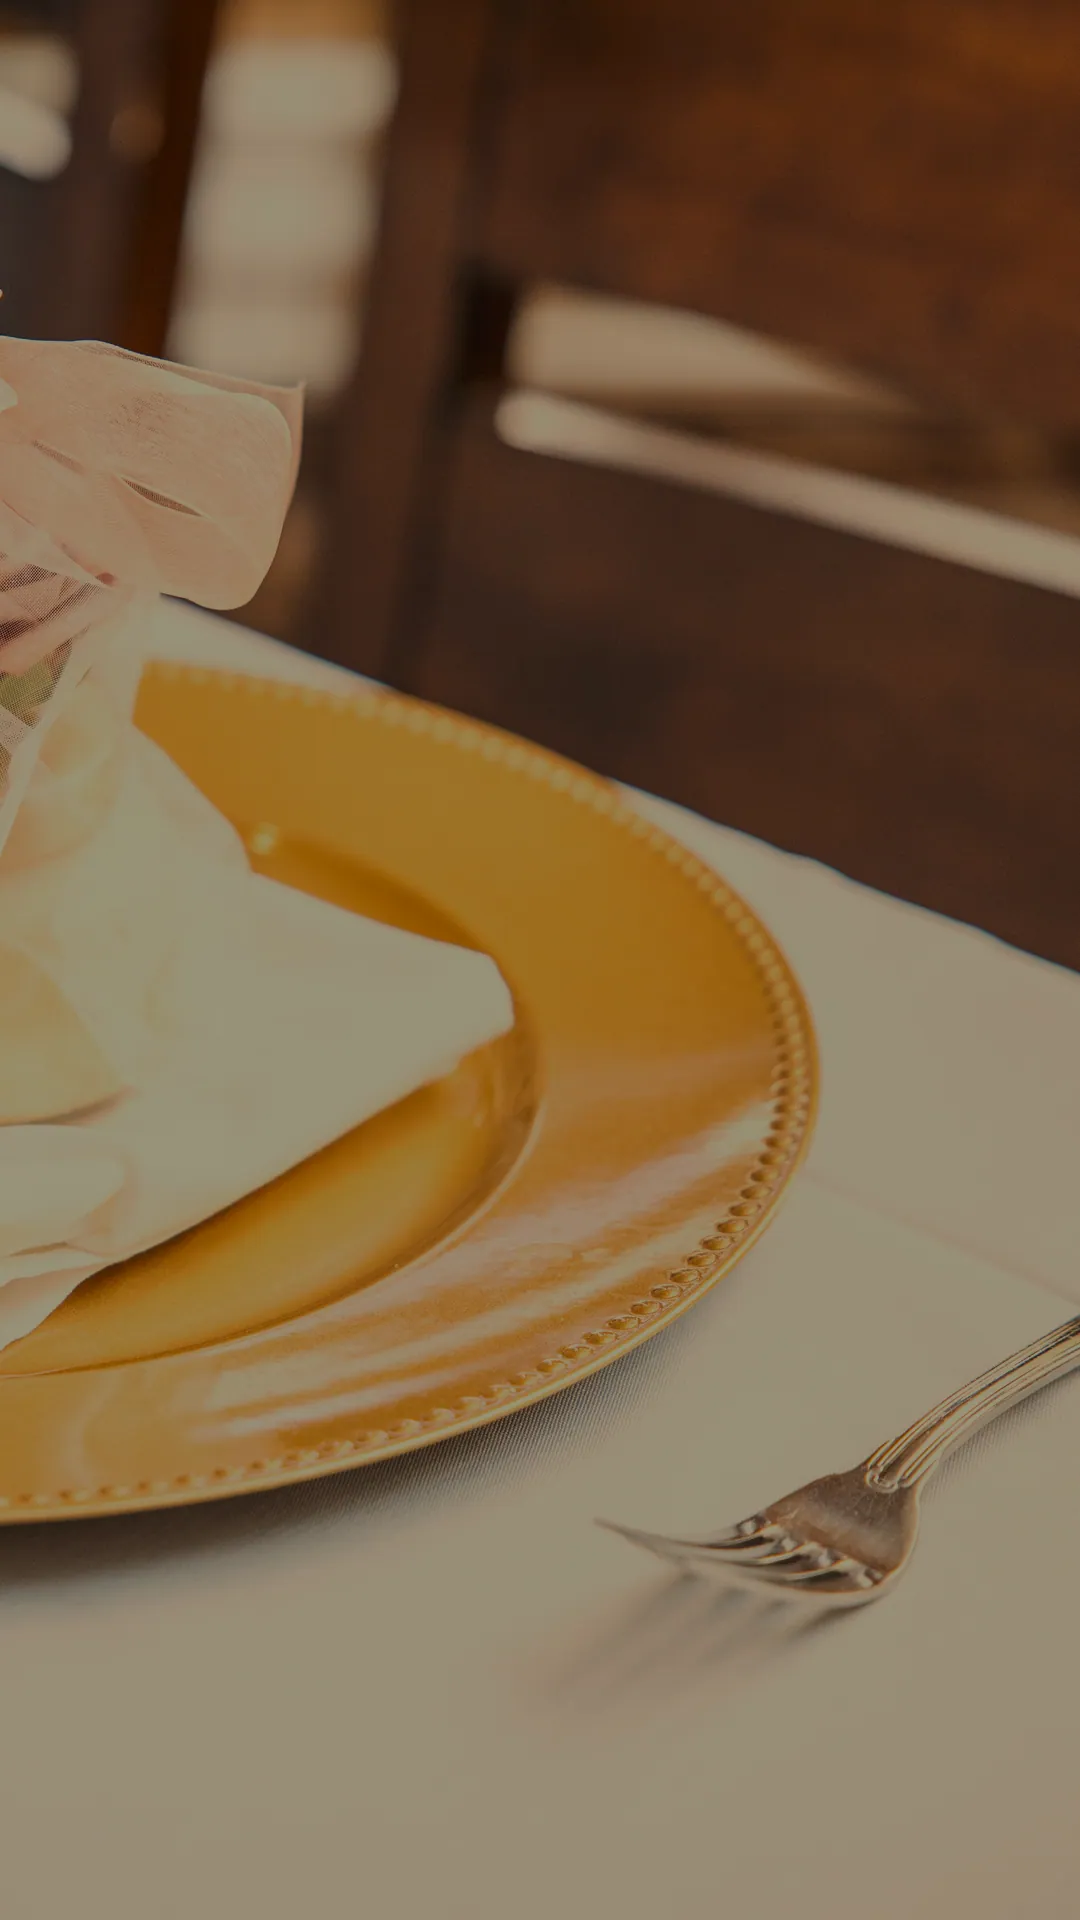
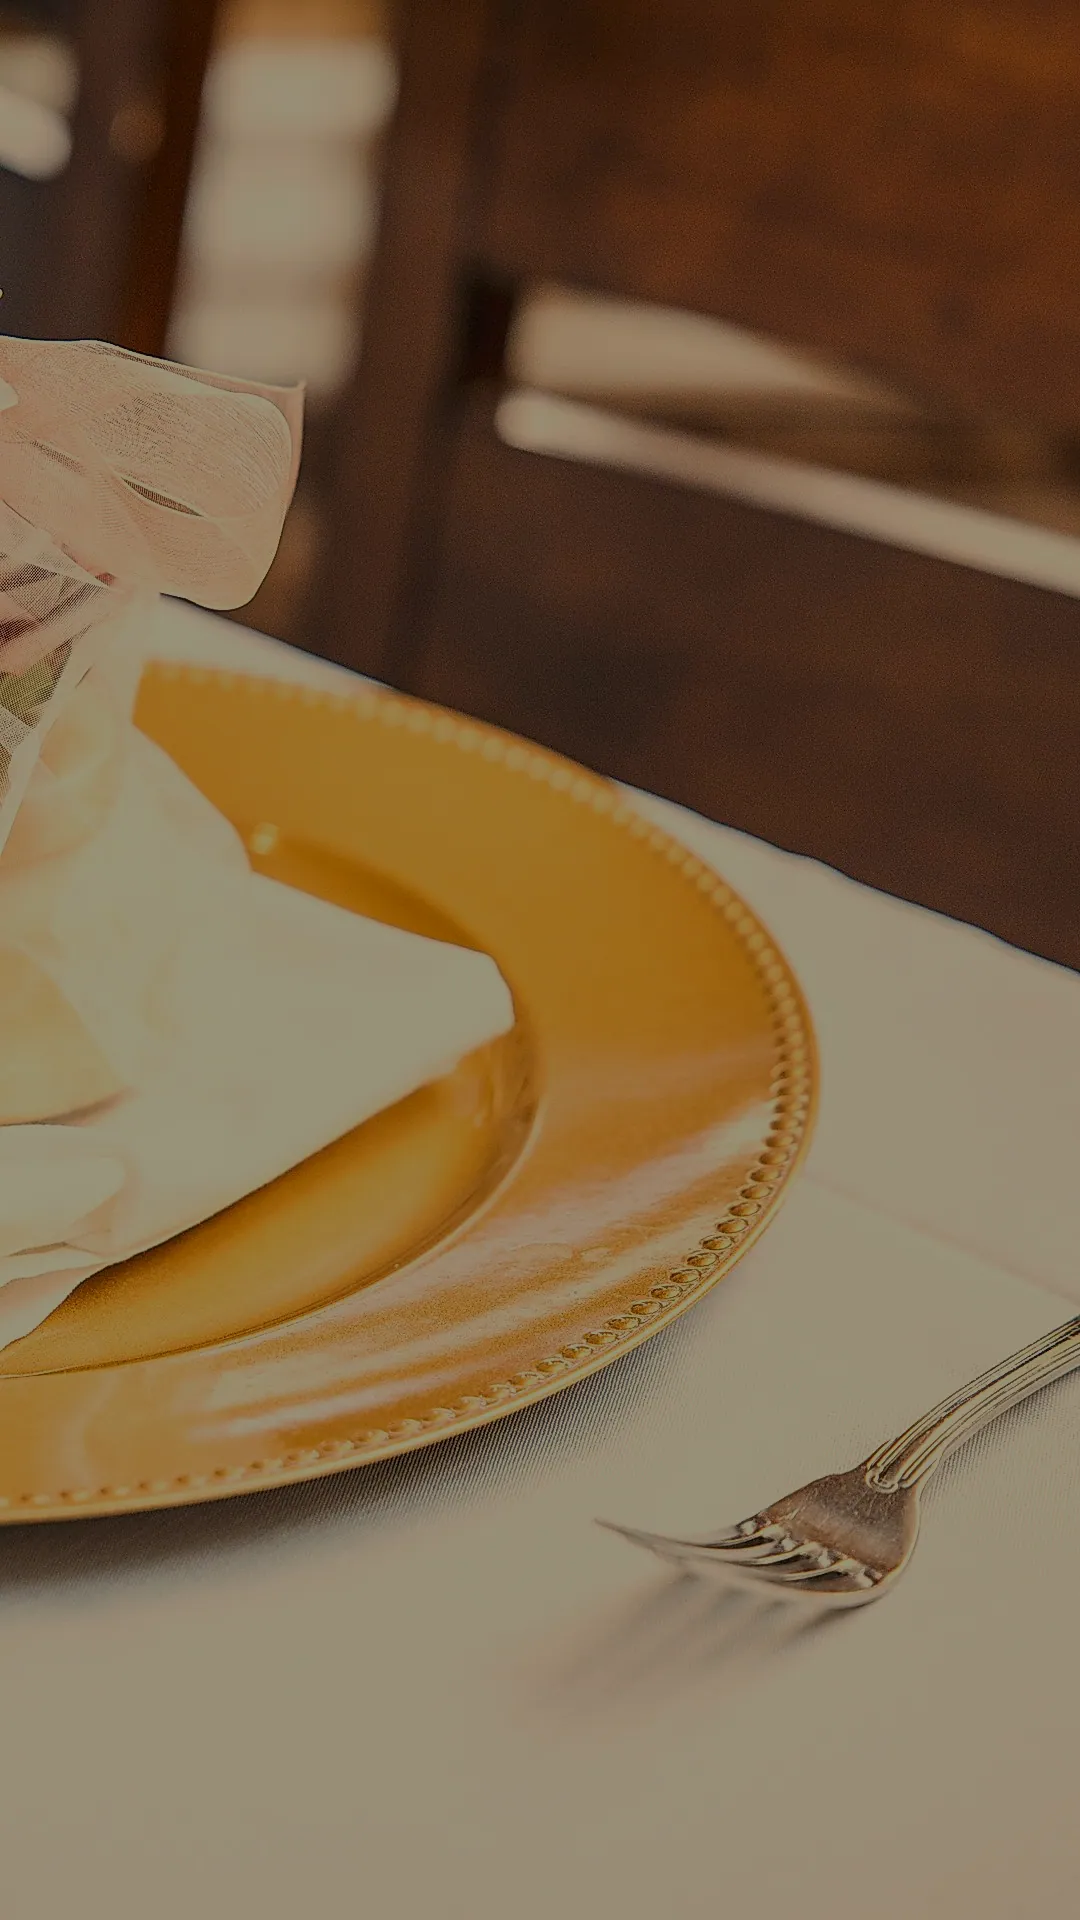
fix(film): copy dissolves in place through each transition; sharper gift plate; anchor test targets the Events scene

diff --git a/e2e/anchor-scroll.spec.ts b/e2e/anchor-scroll.spec.ts
@@ -31,7 +31,7 @@ async function landing(page: Page, id: string) {
 
 /** Focus first: it marks the end of the landing (see expectLanded in helpers.ts). */
 async function expectLanded(page: Page, id: string, heading: string) {
-  await expect(page.locator(`#${heading}`)).toBeFocused({ timeout: 10_000 });
+  await expect(page.locator(heading)).toBeFocused({ timeout: 10_000 });
   const offset = await landing(page, id);
   expect(Math.abs(offset), `landing offset ${offset}px`).toBeLessThanOrEqual(TOLERANCE);
   await expect(page).toHaveURL(new RegExp(`#${id}$`));
@@ -41,10 +41,10 @@ for (const locale of ["en", "ar"] as const) {
   test.describe(`anchor landing (${locale})`, () => {
     test("deep link on load (the header is visible)", async ({ page }) => {
       await gotoReady(page, `/${locale}#services`);
-      // Late layout (hero pin spacer, fonts) shifts #services after the first landing; the
-      // utility re-lands until it settles.
+      // #services is the film's Events scene (D174); its heading is the category name. Late
+      // layout (fonts) can shift it after the first landing; the utility re-lands until it settles.
       await page.waitForTimeout(1500);
-      await expectLanded(page, "services", "services-title");
+      await expectLanded(page, "services", "#services .film-cat");
       expect(await page.locator("[data-header-shell]").evaluate((el) => getComputedStyle(el).opacity)).toBe("1");
     });
 

diff --git a/src/components/sections/film/film-motion.tsx b/src/components/sections/film/film-motion.tsx
@@ -57,8 +57,12 @@ export function FilmMotion() {
             const rise = gsap.timeline({ scrollTrigger: { trigger: beat, start: "top bottom", end: "top top", scrub: true } });
             rise.fromTo(plate, { yPercent: -100 }, { yPercent: 0, ease: "none", duration: 1 }, 0);
             rise.fromTo(plate, { opacity: 0 }, { opacity: 1, ease: "power1.inOut", duration: 0.6 }, 0);
-            if (prevCopy) rise.to(prevCopy, { opacity: 0, yPercent: -6, ease: "power1.in", duration: 0.4 }, 0);
-            if (copy) rise.fromTo(copy, { opacity: 0 }, { opacity: 1, ease: "power1.out", duration: 0.5 }, 0.45);
+            // The copy is held in place too and dissolves in as the old copy leaves, so a scene's
+            // words are on screen through every transition (W02: no empty screen mid-rise).
+            const copyBox = q(beat, ".film-copy");
+            if (copyBox) rise.fromTo(copyBox, { yPercent: -100 }, { yPercent: 0, ease: "none", duration: 1 }, 0);
+            if (prevCopy) rise.to(prevCopy, { opacity: 0, yPercent: -6, ease: "power1.in", duration: 0.3 }, 0.1);
+            if (copy) rise.fromTo(copy, { opacity: 0 }, { opacity: 1, ease: "power1.out", duration: 0.3 }, 0.4);
           }
 
           const veil = q(beat, "[data-film-veil]");

diff --git a/docs/DECISIONS.md b/docs/DECISIONS.md
@@ -271,3 +271,4 @@ Environment: Node v24.21.0, npm 11.19.0, Windows 10.
 | D174 | 2026-11-24 | **Home opens with a film: "the night of the event" (the owner's brief and storyboard approval, `docs/review/film-storyboard/`).** It replaces the D173 hero and the categories grid. There are seven scenes, each a full-screen photo with its copy: the empty hall (the first screen: eyebrow, H1, lead and both actions at first paint), Events (the rig comes up), Creative (a cinema camera through a viewfinder, the timecode running to zero), Marketing (the hall's blank wall becomes a screen with an example invitation and a countdown, plus a phone showing the same campaign), Print & Gifts (a gift on a gold charger and a printed name card «ضيفنا الكريم»), Software & Digital (a tablet with an example QR check-in: a guest, the "checked in" state and a live count), and the finale (Rand's dressed hall, the dial at zero, «حان وقت البداية.» and the CTA). The layout is CSS only, so nothing shifts when JS arrives: in motion mode each scene's photo and copy are sticky and the next scene starts one screen early, so it rises over the one before, and GSAP turns that rise into a dissolve plus a slow dolly and each scene's own move. Phones use the same story with 9:16 crops and no hold. Reduced motion and no JS show the scenes stacked, each at its final frame. Screens, the card and the viewfinder are real text in code (localized, "Example" on demo data). Photos: Unsplash under the Unsplash License (`docs/content/recipes/home-film.json`, credited in `media.ts`). The camera is a backlit silhouette (no brand), the beams have the confetti taken out with a median filter, and there are no logos or recognizable people. `#services` lands on the Events scene, and "Skip the film" jumps to the next section. Three photos repeat on purpose (KEPT in `photo-slots.test.ts`). | The owner rejected the orbiting-objects hero and asked for the homepage to play as one film. |
 | D175 | 2026-11-24 | **Three visible bugs (the owner's list).** (1) The product badge reads «قيد التطوير» / "In development" everywhere (D-C6), and the labels note in the legal copy says the same. (2) The fourth category is «الطباعة والهدايا» / "Print & Gifts" everywhere, as in the menu; the URL slug is unchanged. (3) The showreel counter counts projects, not photos: it read "1 / 10" for three projects. The frames now play grouped by project, so it counts 1 / 3 → 3 / 3 (`reelProject`, tested). | The owner's QA list. |
 | D176 | 2026-11-24 | **The film's motion is built on the visitor's first move; LCP stays the H1.** The first film build created every scene's ScrollTriggers at hydration: 3.4–4.3 s TBT (mostly Style & Layout), and the opening plate, transformed by GSAP after it had painted, was reported as a new, larger LCP (/en 4824 ms, /ar 4973 ms, the plate). `film-motion.tsx` now builds them on the first scroll, key, touch or pointer (or at once when the page opens scrolled), as D156 did for the hero pin, and the opening holds the dolly's first frame in CSS (`scale(1.1)`), so the build moves nothing. Lighthouse mobile (3 runs, `docs/checkpoints/lighthouse/film/`): LCP /en 4516 ms, /ar 4608 ms, the H1 in all 12 runs (D156: 4643 / 4840–4903); TBT 1866 / 2339; CLS 0. | The brief: LCP = text, no LCP regression, CLS 0. |
+| D177 | 2026-11-25 | **The film keeps words on screen through every transition (the PR's full CI, W02).** `empty-screens.spec` failed on Home with motion: mid-rise, the outgoing copy had faded while the incoming copy was still below the fold with its beat, so on phones the lower half was empty (57–75% at 4 stops). Each scene's copy box is now held in place like its plate (`yPercent -100 → 0` over the rise) and fades in at 0.4–0.7 as the old copy leaves at 0.1–0.4. On desktop, the Print & Gifts plate's soft crop read as empty (53–57%): the recipe pipeline takes `sharpen` (sigma) and the gift plate uses 1.6 (`home-film.json`), which brings out the organza weave and the charger's rim. `anchor-scroll.spec` lands `#services` on the Events scene's heading (`#services .film-cat`; the old `#services-title` is gone with the categories grid). Local: W02 /en and /ar pass on both projects; film, first-screen and anchor-scroll pass (40); no cut-offs at the five sizes. | W02 is the owner's rule: no empty screen at any scroll moment. |
